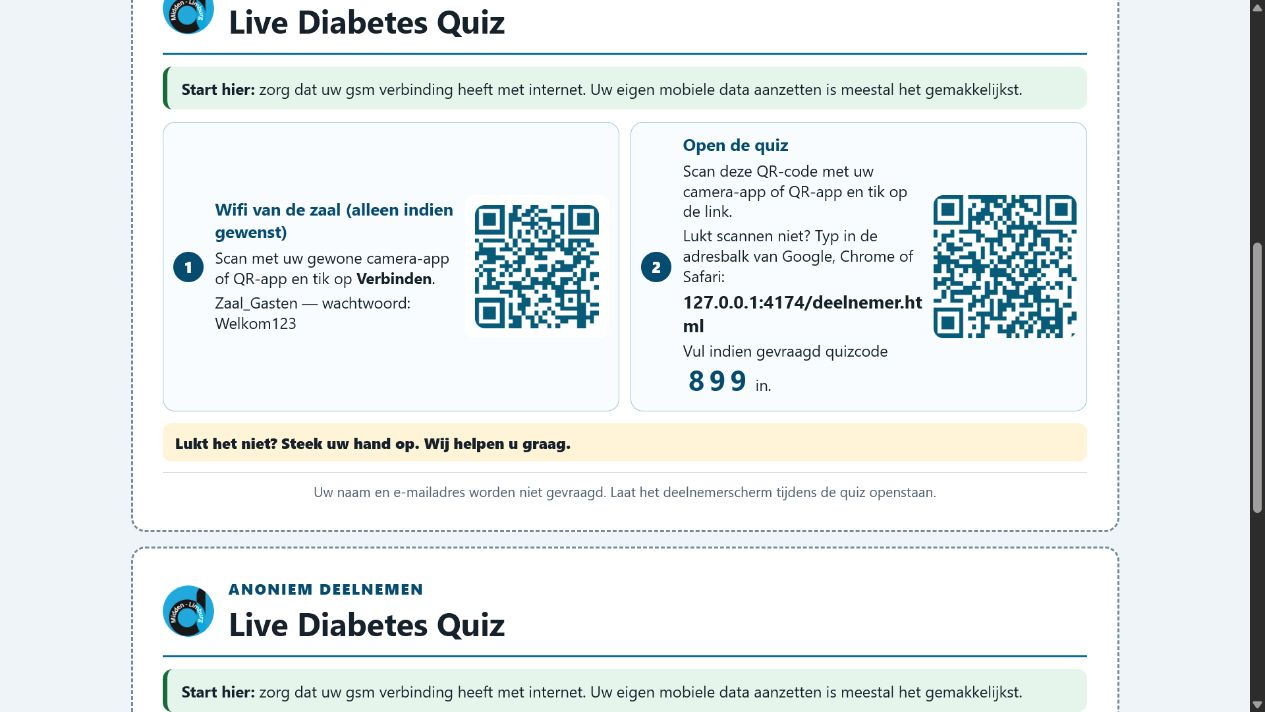
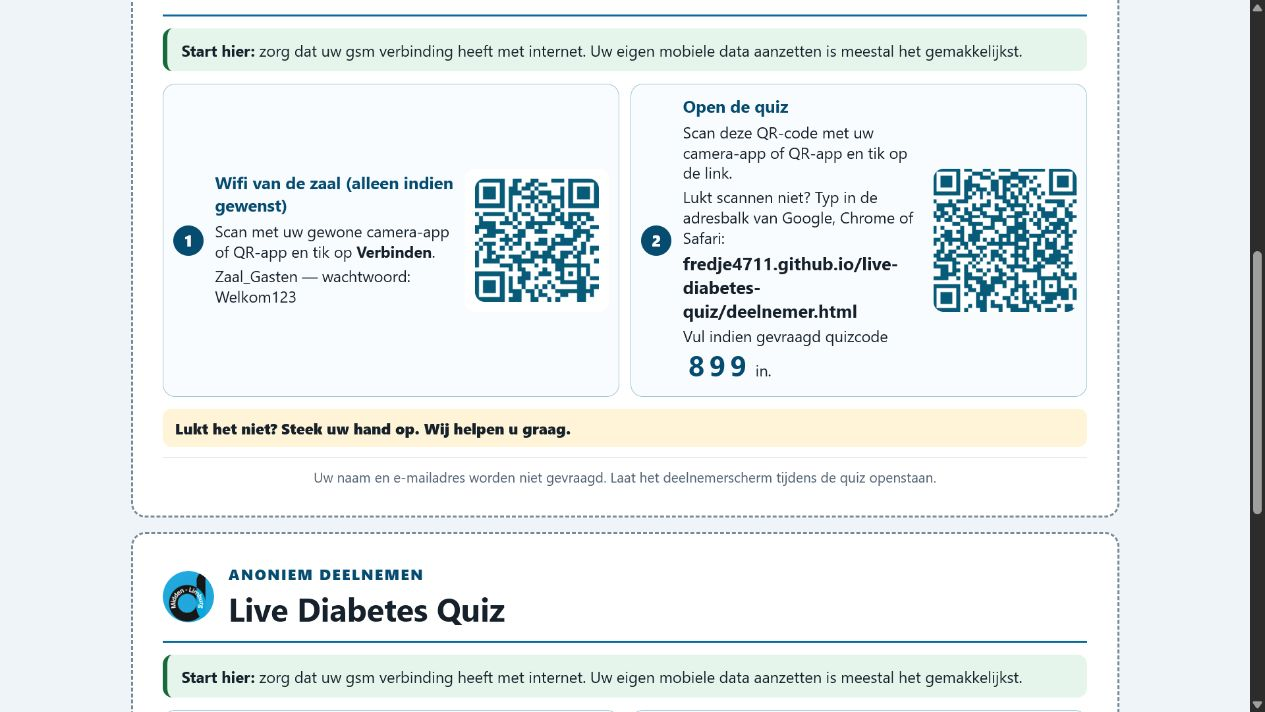
Gebruik publiek deelnemersbriefje in handleiding

Changed region(s): [[0.0925, 0.0, 0.8941, 1.0], [0.9866, 0.3399, 1.0, 0.3708]]

diff --git a/docs/handleiding.html b/docs/handleiding.html
@@ -148,7 +148,7 @@
             </p>
 
             <figure class="guide-figure guide-figure--wide">
-                <img src="assets/handleiding/deelnemersbriefje.jpg" alt="Voorbeeld van een deelnemersbriefje met wifi-QR-code en quiz-QR-code" loading="lazy">
+                <img src="assets/handleiding/deelnemersbriefje.jpg?v=2" alt="Voorbeeld van een deelnemersbriefje met wifi-QR-code en quiz-QR-code" loading="lazy">
                 <figcaption>Voorbeeld met fictieve wifi. De echte naam, het echte wachtwoord en de quizcode worden vóór het afdrukken ingevuld.</figcaption>
             </figure>
 
